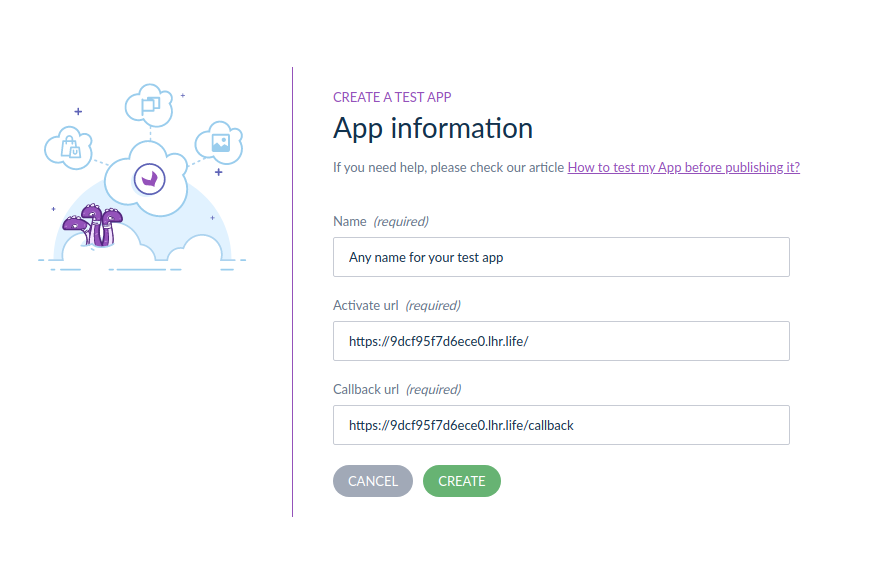
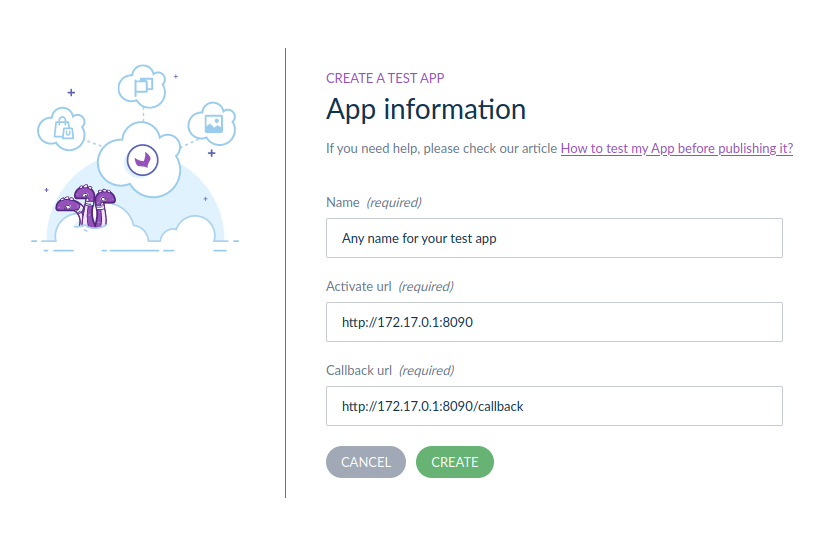
CXP: update readme

diff --git a/README.md b/README.md
@@ -13,10 +13,8 @@ make .env
 ```shell
 make up
 ```
-
-4) If you are running a local PIM dev, check in your .env.local file that your AKENEO_PIM_URL=http://172.17.0.1:8080 (put your own port)
-5) [OPTIONAL] If you are not running the PIM locally, you need to expose your demo app to the internet. You can do it by running `ssh -R 80:localhost:8090 localhost.run` (put your own port).
-6) In Akeneo PIM, create a new Test App from the connect/marketplace page and fill the form with your local demo app url exposed by docker (`http://172.17.0.1:8090`) or, if your PIM is not running locally, thanks to the URL the previous command gave you:
+4) If you are running a PIM locally, check that your `.env.local` file has this entry `AKENEO_PIM_URL=http://172.17.0.1:8080` (put your own port)
+5) In Akeneo PIM, create a new Test App from the connect/marketplace page and fill the form with your local demo app url exposed by docker (`http://172.17.0.1:8090`) :
 ![Test app creation form](documentation/creation-form-test-app.png)
 
 ### Useful commands
